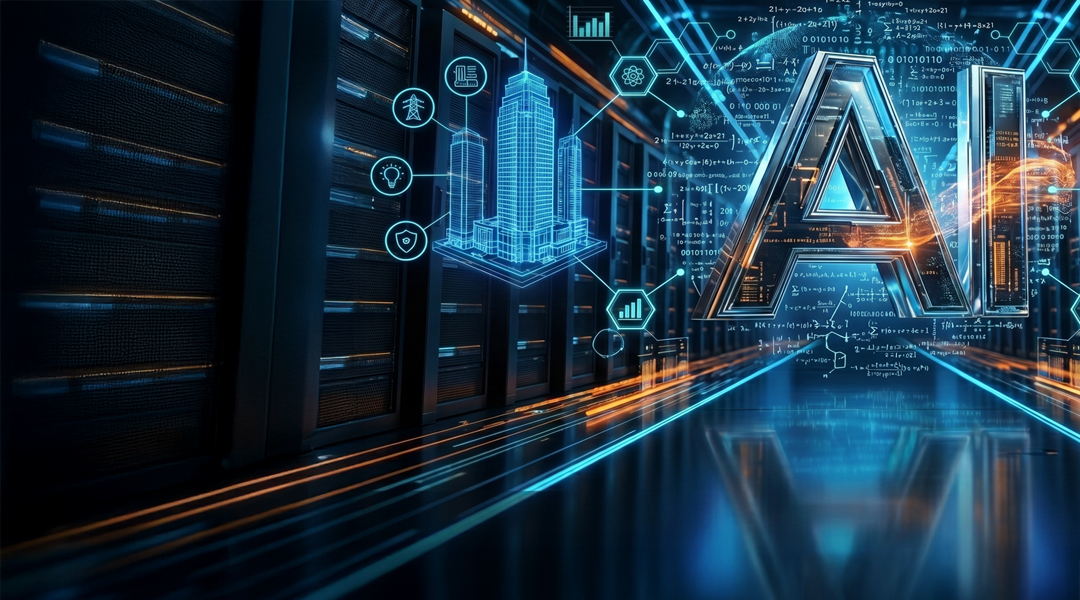
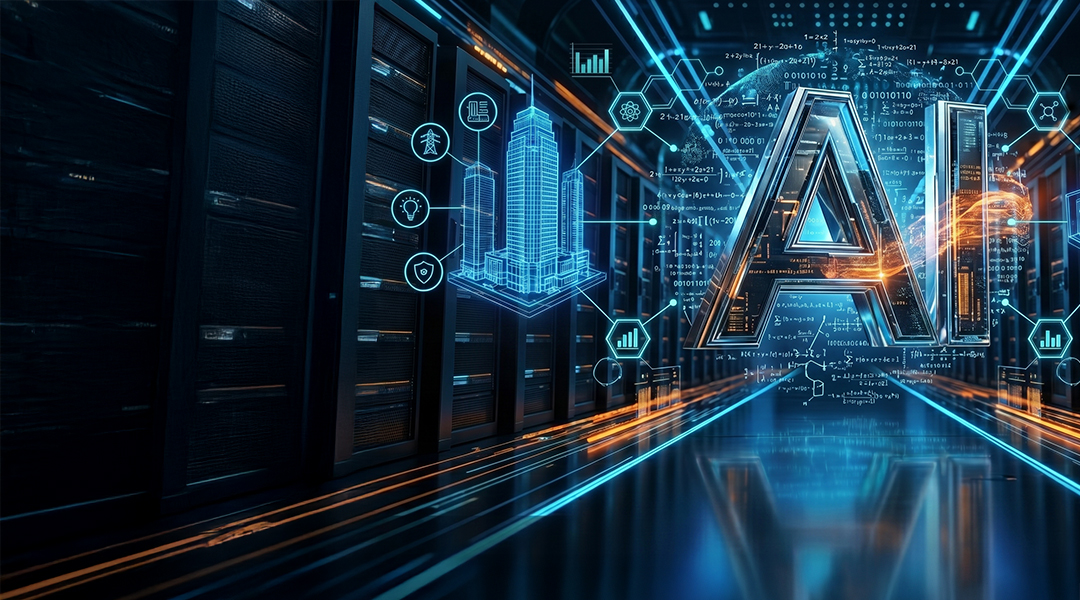
certi

diff --git a/web_EZCON_2024IntelligentBuilding/certification.html b/web_EZCON_2024IntelligentBuilding/certification.html
@@ -263,7 +263,7 @@
                                                 <h2 class="xb-item--title text-gradient-light">智慧建築與系統整合能力</h2>
                                                 <p class="xb-item--content">實際落地的專業資格，展現出高相容、高穩定的系統架構，為建案注入未來科技標配。</p>
                                             </div>
-                                            <a class="xb-item--icon" href="#section-about">
+                                            <a class="xb-item--icon" href="#certifi-first">
                                                 <svg width="31" height="31" viewBox="0 0 31 31" fill="none" xmlns="http://www.w3.org/2000/svg">
                                                 <rect x="6.29004" y="21.4111" width="22.36" height="2.83936" transform="rotate(-40.2798 6.29004 21.4111)" fill="white" />
                                                 <rect x="9.44824" y="7.57031" width="2.83936" height="2.83936" transform="rotate(-40.2798 9.44824 7.57031)" fill="white" />
@@ -285,7 +285,7 @@
                                                 <h2 class="xb-item--title text-gradient-light">智慧能源與管理能力</h2>
                                                 <p class="xb-item--content">官方智財專利，精準節能的頂尖實力，將能源控制轉化為品牌的核心護城河，落實資產增值與永續營運。</p>
                                             </div>
-                                            <a class="xb-item--icon" href="#section-about">
+                                            <a class="xb-item--icon" href="#certifi-sec">
                                                 <svg width="31" height="31" viewBox="0 0 31 31" fill="none" xmlns="http://www.w3.org/2000/svg">
                                                 <rect x="6.29004" y="21.4111" width="22.36" height="2.83936" transform="rotate(-40.2798 6.29004 21.4111)" fill="white" />
                                                 <rect x="9.44824" y="7.57031" width="2.83936" height="2.83936" transform="rotate(-40.2798 9.44824 7.57031)" fill="white" />
@@ -307,7 +307,7 @@
                                                 <h2 class="xb-item--title text-gradient-light">Intel 生態系合作與市場驗證</h2>
                                                 <p class="xb-item--content">通過 Intel 全球生態系的技術審查，硬體相容性達國際高標，賦予品牌國際級的穩定度信任。</p>
                                             </div>
-                                            <a class="xb-item--icon" href="#section-about">
+                                            <a class="xb-item--icon" href="#certifi-third">
                                                 <svg width="31" height="31" viewBox="0 0 31 31" fill="none" xmlns="http://www.w3.org/2000/svg">
                                                 <rect x="6.29004" y="21.4111" width="22.36" height="2.83936" transform="rotate(-40.2798 6.29004 21.4111)" fill="white" />
                                                 <rect x="9.44824" y="7.57031" width="2.83936" height="2.83936" transform="rotate(-40.2798 9.44824 7.57031)" fill="white" />
@@ -349,8 +349,8 @@
             
 
             <div id="top"></div>
-            <!-- service start 認證 -->
-            <section id="ezlife-case" class="service pos-rel pt-200 pb-200 bg_img bg_img_mobile" data-background="assets/img/bg/hero-bg03.jpg">
+            <!-- 認證 1 -->
+            <section id="certifi-first" class="service pos-rel pt-200 pb-200 bg_img bg_img_mobile" data-background="assets/img/bg/hero-bg03.jpg">
                 <div class="de-gradient-edge-top"></div>
                 <div class="container mxw-1650">
                     <div class="row">
@@ -376,20 +376,20 @@
                                     <div class="xb-project-content">
                                         <div class="xb-item--inner xb-border">
                                             <!-- <h2 class="xb-item--title">Chatbot and NLP projects..</h2> -->
-                                            <p class="xb-item--content clr-white">透過台灣智慧建築協會 (TIBA) 認證，易控已完成智慧管理平台建置與建築數據串接，並取得智慧建材標章，驗證系統於建築場域中的實際應用能力。具備從系統規劃、設備整合到平台建置的整體能力，能協助建築導入智慧化管理並符合標章評定需求。</p>
+                                            
                                             <div class="row">
-                                                <div class="col-5">
+                                                <div class="col-lg-5 col-12">
                                                     <div class="xb-item--img ">
-                                                        <img src="images/TIBA雲平台使用證書.jpg" alt="image">
+                                                        <img src="demo/certifi/certificate/TIBA雲平台使用證書.jpg" alt="image">
                                                     </div>
                                                 </div>
-                                                <div class="col-5">
+                                                <div class="col-lg-5 col-12">
                                                     <div class="xb-item--img ">
-                                                        <img src="images/TIBA_certifi.jpg" alt="image">
+                                                        <img src="demo/certifi/certificate/TIBA_certifi.jpg" alt="image">
                                                     </div>
                                                 </div>
                                             </div>
-                                            <!-- 智慧財產局發明專利_充電樁管控系統及方法.jpg -->
+                                            <p class="xb-item--content clr-white">透過台灣智慧建築協會 (TIBA) 認證，易控已完成智慧管理平台建置與建築數據串接，並取得智慧建材標章，驗證系統於建築場域中的實際應用能力。具備從系統規劃、設備整合到平台建置的整體能力，能協助建築導入智慧化管理並符合標章評定需求。</p>
                                         </div>
                                     </div>
                                     <div class="xb-project-img img-hove-effect">
@@ -397,7 +397,7 @@
                                             <a href="#!" target="_blank"><img src="demo/certifi/certifi_bg_1.jpg" alt="image"></a> 
                                             <a href="#!" target="_blank"><img src="demo/certifi/certifi_bg_1.jpg" alt="image"></a>
                                             <a href="#!" target="_blank"><img src="demo/certifi/certifi_bg_1.jpg" alt="image"></a>
-                                            <a href="#!" target="_blank"><img src="demo/preview/certifi_bg_1.jpg" alt="image"></a>
+                                            <a href="#!" target="_blank"><img src="demo/certifi/certifi_bg_1.jpg" alt="image"></a>
                                         </div>
                                     </div>
                                 </div>
@@ -411,7 +411,131 @@
                 </div>
                 <div class="de-gradient-edge-bottom"></div>
             </section>
-            <!-- service end -->
+
+            <!-- 認證 2 -->
+            <section id="certifi-sec" class="service pos-rel pt-200 pb-200 bg_img bg_img_mobile" data-background="assets/img/bg/hero-bg03.jpg">
+                <div class="de-gradient-edge-top"></div>
+                <div class="container mxw-1650">
+                    <div class="row">
+                        <!-- title -->
+                        <div class="col-lg-12 z-3">
+                            <div class="sec-title blog-sec-title">
+                                <span class="sub-title mb-15">智慧能源與管理能力</span>
+                                <h2 class="title type3 margin_v forPhone_br_show text-uppercase wow fadeInUp ">
+                                    <span class="bestAI">智慧財產局發明專利</span><br/>充電樁管控系統及方法
+                                    <img src="assets/img/icon/diamond.gif" alt="shape">
+                                </h2>
+                            </div>
+                        </div>
+                        <div class="col-lg-12">
+                            <div class="xb-project-wrap xb-project-wrap_2 for_certifi type2">
+                                <div class="xb-project-item wow fadeInUp" data-wow-delay="0ms" data-wow-duration="600ms">
+                                    <div class="xb-project-content">
+                                        <div class="xb-item--inner xb-border">
+                                            <!-- <h2 class="xb-item--title">Chatbot and NLP projects..</h2> -->
+                                            <div class="row">
+                                                <div class="col-lg-7 col-12">
+                                                    <div class="xb-item--img ">
+                                                        <img src="demo/certifi/certificate/智慧財產局發明專利_充電樁管控系統及方法.jpg" alt="image">
+                                                    </div>
+                                                </div>
+                                                <!-- <div class="col-lg-5 col-12">
+                                                    <div class="xb-item--img ">
+                                                        <img src="images/TIBA_certifi.jpg" alt="image">
+                                                    </div>
+                                                </div> -->
+                                            </div>
+                                            <p class="xb-item--content clr-white">取得經濟部智慧財產局發明專利「充電樁管控系統及方法」， 展現易控在能源管理與設備控制領域的技術實力。該技術可應用於電力監控、充電設備管理與異常防護機制，強化建築在能源使用、安全管理與智慧調度上的整體能力。</p>
+                                        </div>
+                                    </div>
+                                    <div class="xb-project-img img-hove-effect">
+                                        <div class="xb-img">
+                                            <a href="#!" target="_blank"><img src="demo/certifi/certifi_bg_能源充電樁b.jpg" alt="image"></a> 
+                                            <a href="#!" target="_blank"><img src="demo/certifi/certifi_bg_能源充電樁b.jpg" alt="image"></a>
+                                            <a href="#!" target="_blank"><img src="demo/certifi/certifi_bg_能源充電樁b.jpg" alt="image"></a>
+                                            <a href="#!" target="_blank"><img src="demo/certifi/certifi_bg_能源充電樁b.jpg" alt="image"></a>
+                                        </div>
+                                    </div>
+                                </div>
+                            </div>
+                        </div>
+                    </div>
+                    <div class="background_video type2">
+                        <video class="responsive-video" src="https://www.pexels.com/download/video/32399073/" loop="" muted="" playsinline="" autoplay="" poster="assets/img/bg/hero-bg03_1.jpg">
+                        </video>                        
+                    </div>
+                </div>
+                <div class="de-gradient-edge-bottom"></div>
+            </section>
+
+            <!-- 認證 3 -->
+            <section id="certifi-third" class="service pos-rel pt-200 pb-200 bg_img bg_img_mobile" data-background="assets/img/bg/hero-bg03.jpg">
+                <div class="de-gradient-edge-top"></div>
+                <div class="container mxw-1650">
+                    <div class="row">
+                        <!-- title -->
+                        <div class="col-lg-12 z-3">
+                            <div class="sec-title blog-sec-title">
+                                <span class="sub-title mb-15">Intel 生態系合作與市場驗證</span>
+                                <!-- <h2 class="title">富櫻翫<br/>頂級溫泉養生行館 <img src="assets/img/icon/original-9e54f87f13d.gif" alt="shape"></h2> -->
+                                <h2 class="title type3 margin_v forPhone_br_show text-uppercase wow fadeInUp ">
+                                    <span class="bestAI">進入 Intel Edge AI 生態系</span><br/>智慧建築 AI 邊緣應用
+                                    <!-- <img src="assets/img/icon/original-9e54f87f13d.gif" alt="shape"> -->
+                                    <img src="assets/img/icon/diamond.gif" alt="shape">
+                                </h2>
+                            </div>
+                        </div>
+                        <!-- <div class="col-lg-1"></div> -->
+                        <!-- <div class="spacer-40"></div> -->
+                        <div class="col-lg-12">
+                            <div class="xb-project-wrap xb-project-wrap_2 for_certifi">
+                                <div class="xb-project-item wow fadeInUp" data-wow-delay="0ms" data-wow-duration="600ms">
+                                    <div class="xb-project-content">
+                                        <div class="xb-item--inner xb-border">
+                                            <!-- <h2 class="xb-item--title">Chatbot and NLP projects..</h2> -->
+                                            <div class="row">
+                                                <div class="col-lg-5 col-12">
+                                                    <div class="xb-item--img mb20">
+                                                        <img src="demo/certifi/certificate/intel_MRS_logo.svg" alt="image">
+                                                    </div>
+                                                    <div class="xb-item--img ">
+                                                        <img src="demo/certifi/certificate/intel-gold-alliance.jpg" alt="image">
+                                                    </div>
+                                                </div>
+                                                <!-- <div class="col-lg-6 col-12">
+                                                    <div class="xb-item--img ">
+                                                        <img src="demo/certifi/logo/intel-gold-alliance.jpg" alt="image">
+                                                    </div>
+                                                </div> -->
+                                                <div class="col-lg-7 col-12">
+                                                    <div class="xb-item--img ">
+                                                        <img src="demo/certifi/certificate/ESS 26_Ezcon Demo Card_V2.jpg" alt="image">
+                                                    </div>
+                                                </div>
+                                            </div>
+                                            <p class="xb-item--content clr-white">易控智慧已進入 Intel Edge AI 生態系，並於國際技術平台展示智慧建築應用成果，代表產品具備實際市場應用能力與國際技術接軌實力。透過與全球科技夥伴合作，加速智慧建築與 AIoT 解決方案落地。</p>
+                                        </div>
+                                    </div>
+                                    <div class="xb-project-img img-hove-effect">
+                                        <div class="xb-img">
+                                            <a href="#!" target="_blank"><img src="demo/certifi/certifi_bg_intel_AI_a.jpg" alt="image"></a> 
+                                            <a href="#!" target="_blank"><img src="demo/certifi/certifi_bg_intel_AI_a.jpg" alt="image"></a>
+                                            <a href="#!" target="_blank"><img src="demo/certifi/certifi_bg_intel_AI_a.jpg" alt="image"></a>
+                                            <a href="#!" target="_blank"><img src="demo/certifi/certifi_bg_intel_AI_a.jpg" alt="image"></a>
+                                        </div>
+                                    </div>
+                                </div>
+                            </div>
+                        </div>
+                    </div>
+                    <div class="background_video type2">
+                        <video class="responsive-video" src="https://www.pexels.com/download/video/32399073/" loop="" muted="" playsinline="" autoplay="" poster="assets/img/bg/hero-bg03_1.jpg">
+                        </video>                        
+                    </div>
+                </div>
+                <div class="de-gradient-edge-bottom"></div>
+            </section>
+            
 
 
 

diff --git a/web_EZCON_2024IntelligentBuilding/assets/css/main.css b/web_EZCON_2024IntelligentBuilding/assets/css/main.css
@@ -4150,6 +4150,9 @@ body[data-aos-easing=ease] [data-aos] {
     display: none;
   }
 }
+.xb-project-img .xb-img a {
+  pointer-events: none;
+}
 
 .xb-project-pagination-wrap {
   z-index: 2;
@@ -4413,18 +4416,53 @@ body[data-aos-easing=ease] [data-aos] {
   }
 }
 .xb-project-wrap_2.for_certifi .xb-project-item .xb-project-content .xb-item--inner {
-  width: 52rem;
   padding: 50px 40px 50px 60px;
   background: linear-gradient(209deg, rgba(255, 255, 255, 0.06) 0%, rgba(255, 255, 255, 0.06) 100%);
 }
 @media (max-width: 767px) {
   .xb-project-wrap_2.for_certifi .xb-project-item .xb-project-content .xb-item--inner {
     width: auto;
-    padding: 3rem 1rem 3.5rem 2rem;
+    padding: 3rem 1.6rem 1rem 1.6rem;
   }
 }
 .xb-project-wrap_2.for_certifi .xb-project-item .xb-project-content .xb-item--inner p {
-  width: 70%;
+  width: 65%;
+  margin-top: 1.4rem;
+  margin-bottom: 0;
+}
+@media (max-width: 767px) {
+  .xb-project-wrap_2.for_certifi .xb-project-item .xb-project-content .xb-item--inner p {
+    width: 100%;
+    margin-top: 0;
+    margin-bottom: 1.4rem;
+  }
+}
+@media (max-width: 767px) {
+  .xb-project-wrap_2.for_certifi .xb-project-item .xb-project-content .xb-item--inner .xb-item--img {
+    margin-bottom: 1.4rem;
+  }
+}
+.xb-project-wrap_2.for_certifi.type2 .xb-project-content .xb-item--inner {
+  width: 42rem;
+  padding: 50px 40px 50px 60px;
+  background: linear-gradient(209deg, rgba(255, 255, 255, 0.06) 0%, rgba(255, 255, 255, 0.06) 100%);
+}
+@media (max-width: 767px) {
+  .xb-project-wrap_2.for_certifi.type2 .xb-project-content .xb-item--inner {
+    width: auto;
+    padding: 3rem 1.6rem 1rem 1.6rem;
+  }
+}
+.xb-project-wrap_2.for_certifi.type2 .xb-project-content .xb-item--inner p {
+  width: 100%;
+}
+.xb-project-wrap_2.for_certifi.type2 .xb-project-content .xb-item--inner .xb-item--img {
+  background: #fff;
+}
+@media (max-width: 767px) {
+  .xb-project-wrap_2.for_certifi.type2 .xb-project-content .xb-item--inner .xb-item--img {
+    margin-bottom: 1.4rem;
+  }
 }
 
 .project-meta {
@@ -6314,24 +6352,31 @@ body[data-aos-easing=ease] [data-aos] {
 }
 .sec-title .title.type3 {
   font-size: 3.2rem;
-  line-height: 1.6;
+  line-height: 1.2rem;
+  text-transform: initial !important;
 }
 @media (max-width: 767px) {
   .sec-title .title.type3 {
-    font-size: 3rem;
-    line-height: 1.4;
+    font-size: 2.4rem;
+    line-height: 3rem;
   }
+}
+.sec-title .title.type3.margin_v {
+  margin: 1.4rem 0 1rem;
 }
 .sec-title .title.type3 img {
   width: 120px;
   margin-top: -10px;
   margin-left: -18px;
+  padding-top: 1.2rem;
   filter: drop-shadow(16px 16px 18px #ff0033) invert(355%) hue-rotate(35deg) brightness(3);
 }
 @media (max-width: 767px) {
   .sec-title .title.type3 img {
-    margin-top: -4.2rem;
-    margin-bottom: -2.8rem;
+    display: block;
+    margin-top: -10px;
+    margin-bottom: 0;
+    padding-top: 0;
   }
 }
 .sec-title .title .smaller {
@@ -12955,6 +13000,8 @@ body .mfp-wrap .mfp-container .mfp-content .mfp-close:hover::before, body .mfp-w
   .hero-style .hero-icon {
     margin-right: 0px;
     transform: translate(70px, 30px);
+    margin-bottom: 3rem;
+    margin-top: -4rem;
   }
 }
 @media only screen and (min-width: 576px) and (max-width: 767px) {
@@ -13100,6 +13147,7 @@ body .mfp-wrap .mfp-container .mfp-content .mfp-close:hover::before, body .mfp-w
 @media (max-width: 767px) {
   .hero-content .sub-title {
     font-size: 16px;
+    line-height: 28px;
   }
 }
 .hero-content .sub-title.animated {

diff --git a/web_EZCON_2024IntelligentBuilding/css/ez.css b/web_EZCON_2024IntelligentBuilding/css/ez.css
@@ -1705,6 +1705,11 @@ a.btn-main.big.type2 {
   background: rgba(0, 0, 0, 0.6);
   height: 100%;
 }
+@media (max-width: 768px) {
+  .certifi_startBox .mask {
+    background: rgba(0, 0, 0, 0.7);
+  }
+}
 .certifi_startBox .container {
   padding-top: 195px;
 }
@@ -1712,6 +1717,12 @@ a.btn-main.big.type2 {
   font-size: 1.6rem;
   margin: 40px 0 18px;
   letter-spacing: 0;
+}
+@media (max-width: 768px) {
+  .certifi_startBox .xb-feature-item .xb-item--title {
+    line-height: 1.4;
+    margin: 10px 0 12px;
+  }
 }
 .certifi_startBox .xb-feature-item a {
   height: 62px;
@@ -1726,4 +1737,15 @@ a.btn-main.big.type2 {
 }
 .certifi_startBox .de-gradient-edge-bottom {
   z-index: -1;
+}
+
+@media (max-width: 768px) {
+  .certifi_startBox[data-video-src*="mp4:video"] video {
+    width: 100%;
+    height: 100%;
+    object-fit: contain; /* 維持正常比例 */
+    /* 調整影片在 div 內的位置：預設是置中 (50% 50%) */
+    object-position: center top; /* 讓影片靠上方對齊，黑邊留給下方 */
+    /* object-position: right bottom; 也可以設定靠右下，或給具體百分比 */
+  }
 }